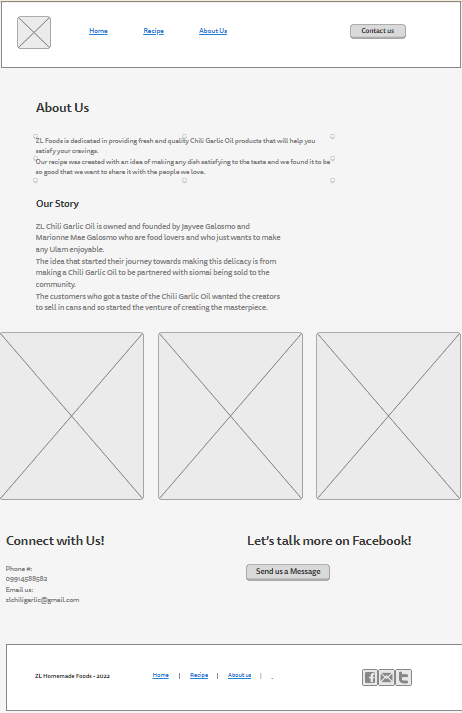
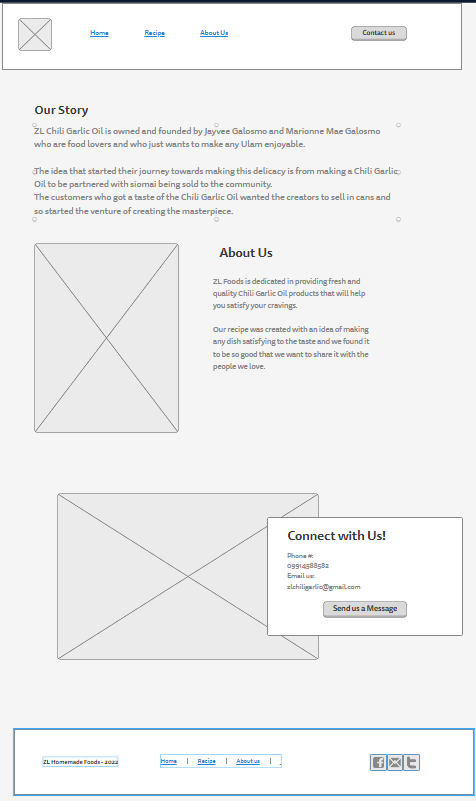
created about us page

diff --git a/zlchiligarlicoil/about-us.html b/zlchiligarlicoil/about-us.html
@@ -1,0 +1,62 @@
+<!DOCTYPE html>
+<html lang="en">
+<head>
+    <meta charset="UTF-8">
+    <meta http-equiv="X-UA-Compatible" content="IE=edge">
+    <meta name="viewport" content="width=device-width, initial-scale=1.0">
+    <title>ZL Chili Garlic | Home</title>
+</head>
+<body>
+    <header>
+        <a id="logo-link" href="index.html">
+            <img class="logo" src="images/300x300ZL_logo_final.png" alt="ZL chili Logo">
+        </a>
+        <nav>
+            <a href="index.html">Home</a>
+            <a href="recipe.html">Recipe</a>
+            <a href="about-us.html">About Us</a>
+            <a href="site-plan.html">Site Plan</a>
+        </nav>
+        <div class="button-box">
+            <a href="https://www.facebook.com/profile.php?id=100087227260485">Contact Us</a>
+        </div>
+    </header>
+    <div id="our-story">
+        <h2 class="headlines">Our Story</h2>
+        <p>ZL Chili Garlic Oil is owned and founded by Jayvee Galosmo and Marionne Mae Galosmo 
+            who are food lovers and who just wants to make any Ulam enjoyable.
+        </p>
+        <p>The idea that started their journey towards making this delicacy is from making a Chili Garlic Oil to be partnered with siomai being sold to the community.<br> 
+            The customers who got a taste of the Chili Garlic Oil wanted 
+            the creators to sell in cans and so started the venture of creating the masterpiece.
+        </p>
+    </div>
+    <main id="aboutus-grid">
+        <div class="aboutus-withimage">
+            <img src="images/rsz_img_20221106_155448.jpg" alt="chili bottle image">
+            <section>
+                <h2 class="headlines">About Us</h2>
+                <p>ZL Foods is dedicated in providing fresh and quality Chili Garlic Oil products that will help you satisfy your cravings. <br>
+                    Our recipe was created with an idea of making any dish satisfying to the taste and we found it to be so good that we want to share it with the people we love.<br></p>
+            </section>
+            <img class="chili" src="images/chili-g6fc9cabeb_1280.jpg" alt="Chili with ingredients">
+            <section class="msg">
+                <h2>Connect with Us!</h2>
+                <p>Phone #: 09914588582</p>
+                <p>Email us at: zlchiligarlic@gmail.com</p>
+                <a class="send-msg" href="https://www.facebook.com/profile.php?id=100087227260485">Send us a Message</a>
+            </section>
+        </div>
+    </main>
+    <footer>
+        <p>ZL Homemade Foods &copy; 2022 - Jayvee Galosmo</p>
+        <p><a href="index.html">Home</a></p>
+        <p><a href="recipe.html">Recipe</a></p>
+        <p><a href="#">About Us</a></p>
+        <p><a href="site-plan.html">Site Plan</a></p>
+        <div class="button-box">
+            <a href="https://www.facebook.com/profile.php?id=100087227260485">Contact Us</a>
+        </div>
+    </footer>
+</body>
+</html>

diff --git a/zlchiligarlicoil/recipe.html b/zlchiligarlicoil/recipe.html
@@ -14,11 +14,11 @@
         <nav>
             <a href="index.html">Home</a>
             <a href="recipe.html">Recipe</a>
-            <a href="#">About Us</a>
+            <a href="about-us.html">About Us</a>
             <a href="site-plan.html">Site Plan</a>
         </nav>
         <div class="button-box">
-            <a href="#">Contact Us</a>
+            <a href="https://www.facebook.com/profile.php?id=100087227260485">Contact Us</a>
         </div>
     </header>
     <div id="hero">
@@ -31,7 +31,7 @@
     </div>
     <main class="recipe-grid">
         <div>
-            <h2 class="home-headline">How To Make Chili Garlic Oil For The Perfect Dinner</h2>
+            <h2 class="headlines">How To Make Chili Garlic Oil For The Perfect Dinner</h2>
             <p>Chili garlic oil is a staple in many Chinese restaurants, 
                 but what if you want to make this delicious condiment at home? 
                 Follow this easy recipe and find out!</p>
@@ -43,7 +43,7 @@
             <img src="images/chiligarlicoilimage1.png" alt="Chili with garlic image">
         </div>
         <div class="ingredients">
-            <h2>Ingredients:</h2> 
+            <h3>Ingredients:</h3> 
             <ul>
                 <li>1/2 cup olive oil</li>
 
@@ -82,10 +82,10 @@
         <p>ZL Homemade Foods &copy; 2022 - Jayvee Galosmo</p>
         <p><a href="index.html">Home</a></p>
         <p><a href="recipe.html">Recipe</a></p>
-        <p><a href="#">About Us</a></p>
+        <p><a href="about-us.html">About Us</a></p>
         <p><a href="site-plan.html">Site Plan</a></p>
         <div class="button-box">
-            <a href="#">Contact Us</a>
+            <a href="https://www.facebook.com/profile.php?id=100087227260485">Contact Us</a>
         </div>
     </footer>
 </body>

diff --git a/zlchiligarlicoil/site-plan.html b/zlchiligarlicoil/site-plan.html
@@ -141,7 +141,7 @@
 
       </p>
       <p>Images for the Home page</p>
-        <img src="images/700x500 ZL product.png" alt="image for homepage">
+        <img src="images/700x500-ZL-product.png" alt="image for homepage">
         <img src="images/chili garlic oil image 2.png" alt="image for homepage">
 
       </ul>
@@ -193,7 +193,7 @@
       </p>
       <p>Images for Recipe</p>
         <img src="images/siteplan_zl_chili_garlic_oil.png" alt="image for page">
-        <img src="images/chili garlic  oil image 1.png" alt="image for page">
+        <img src="images/chiligarlicoilimage1.png" alt="image for page">
 
       </ul>
       <h3>About Us</h3>
@@ -211,8 +211,8 @@
 
       </p>
       <p>Images for About Us</p>
-        <img src="images/1fb_screenshot.png" alt="image for page3">
-        <img src="images/siteplan_img_20221023_180100.jpg" alt="image for page3">
+        <img src="images/rsz_img_20221106_155448.jpg" alt="image for page3">
+        <img src="images/chili-g6fc9cabeb_1280.jpg" alt="image for page3">
 
       </ul>
       <hr>

diff --git a/zlchiligarlicoil/index.html b/zlchiligarlicoil/index.html
@@ -14,11 +14,11 @@
         <nav>
             <a href="index.html">Home</a>
             <a href="recipe.html">Recipe</a>
-            <a href="#">About Us</a>
+            <a href="about-us.html">About Us</a>
             <a href="site-plan.html">Site Plan</a>
         </nav>
         <div class="button-box">
-            <a href="#">Contact Us</a>
+            <a href="https://www.facebook.com/profile.php?id=100087227260485">Contact Us</a>
         </div>
     </header>
     <div id="hero">
@@ -61,7 +61,7 @@
         <p><a href="#">About Us</a></p>
         <p><a href="site-plan.html">Site Plan</a></p>
         <div class="button-box">
-            <a href="#">Contact Us</a>
+            <a href="https://www.facebook.com/profile.php?id=100087227260485">Contact Us</a>
         </div>
     </footer>
 </body>
